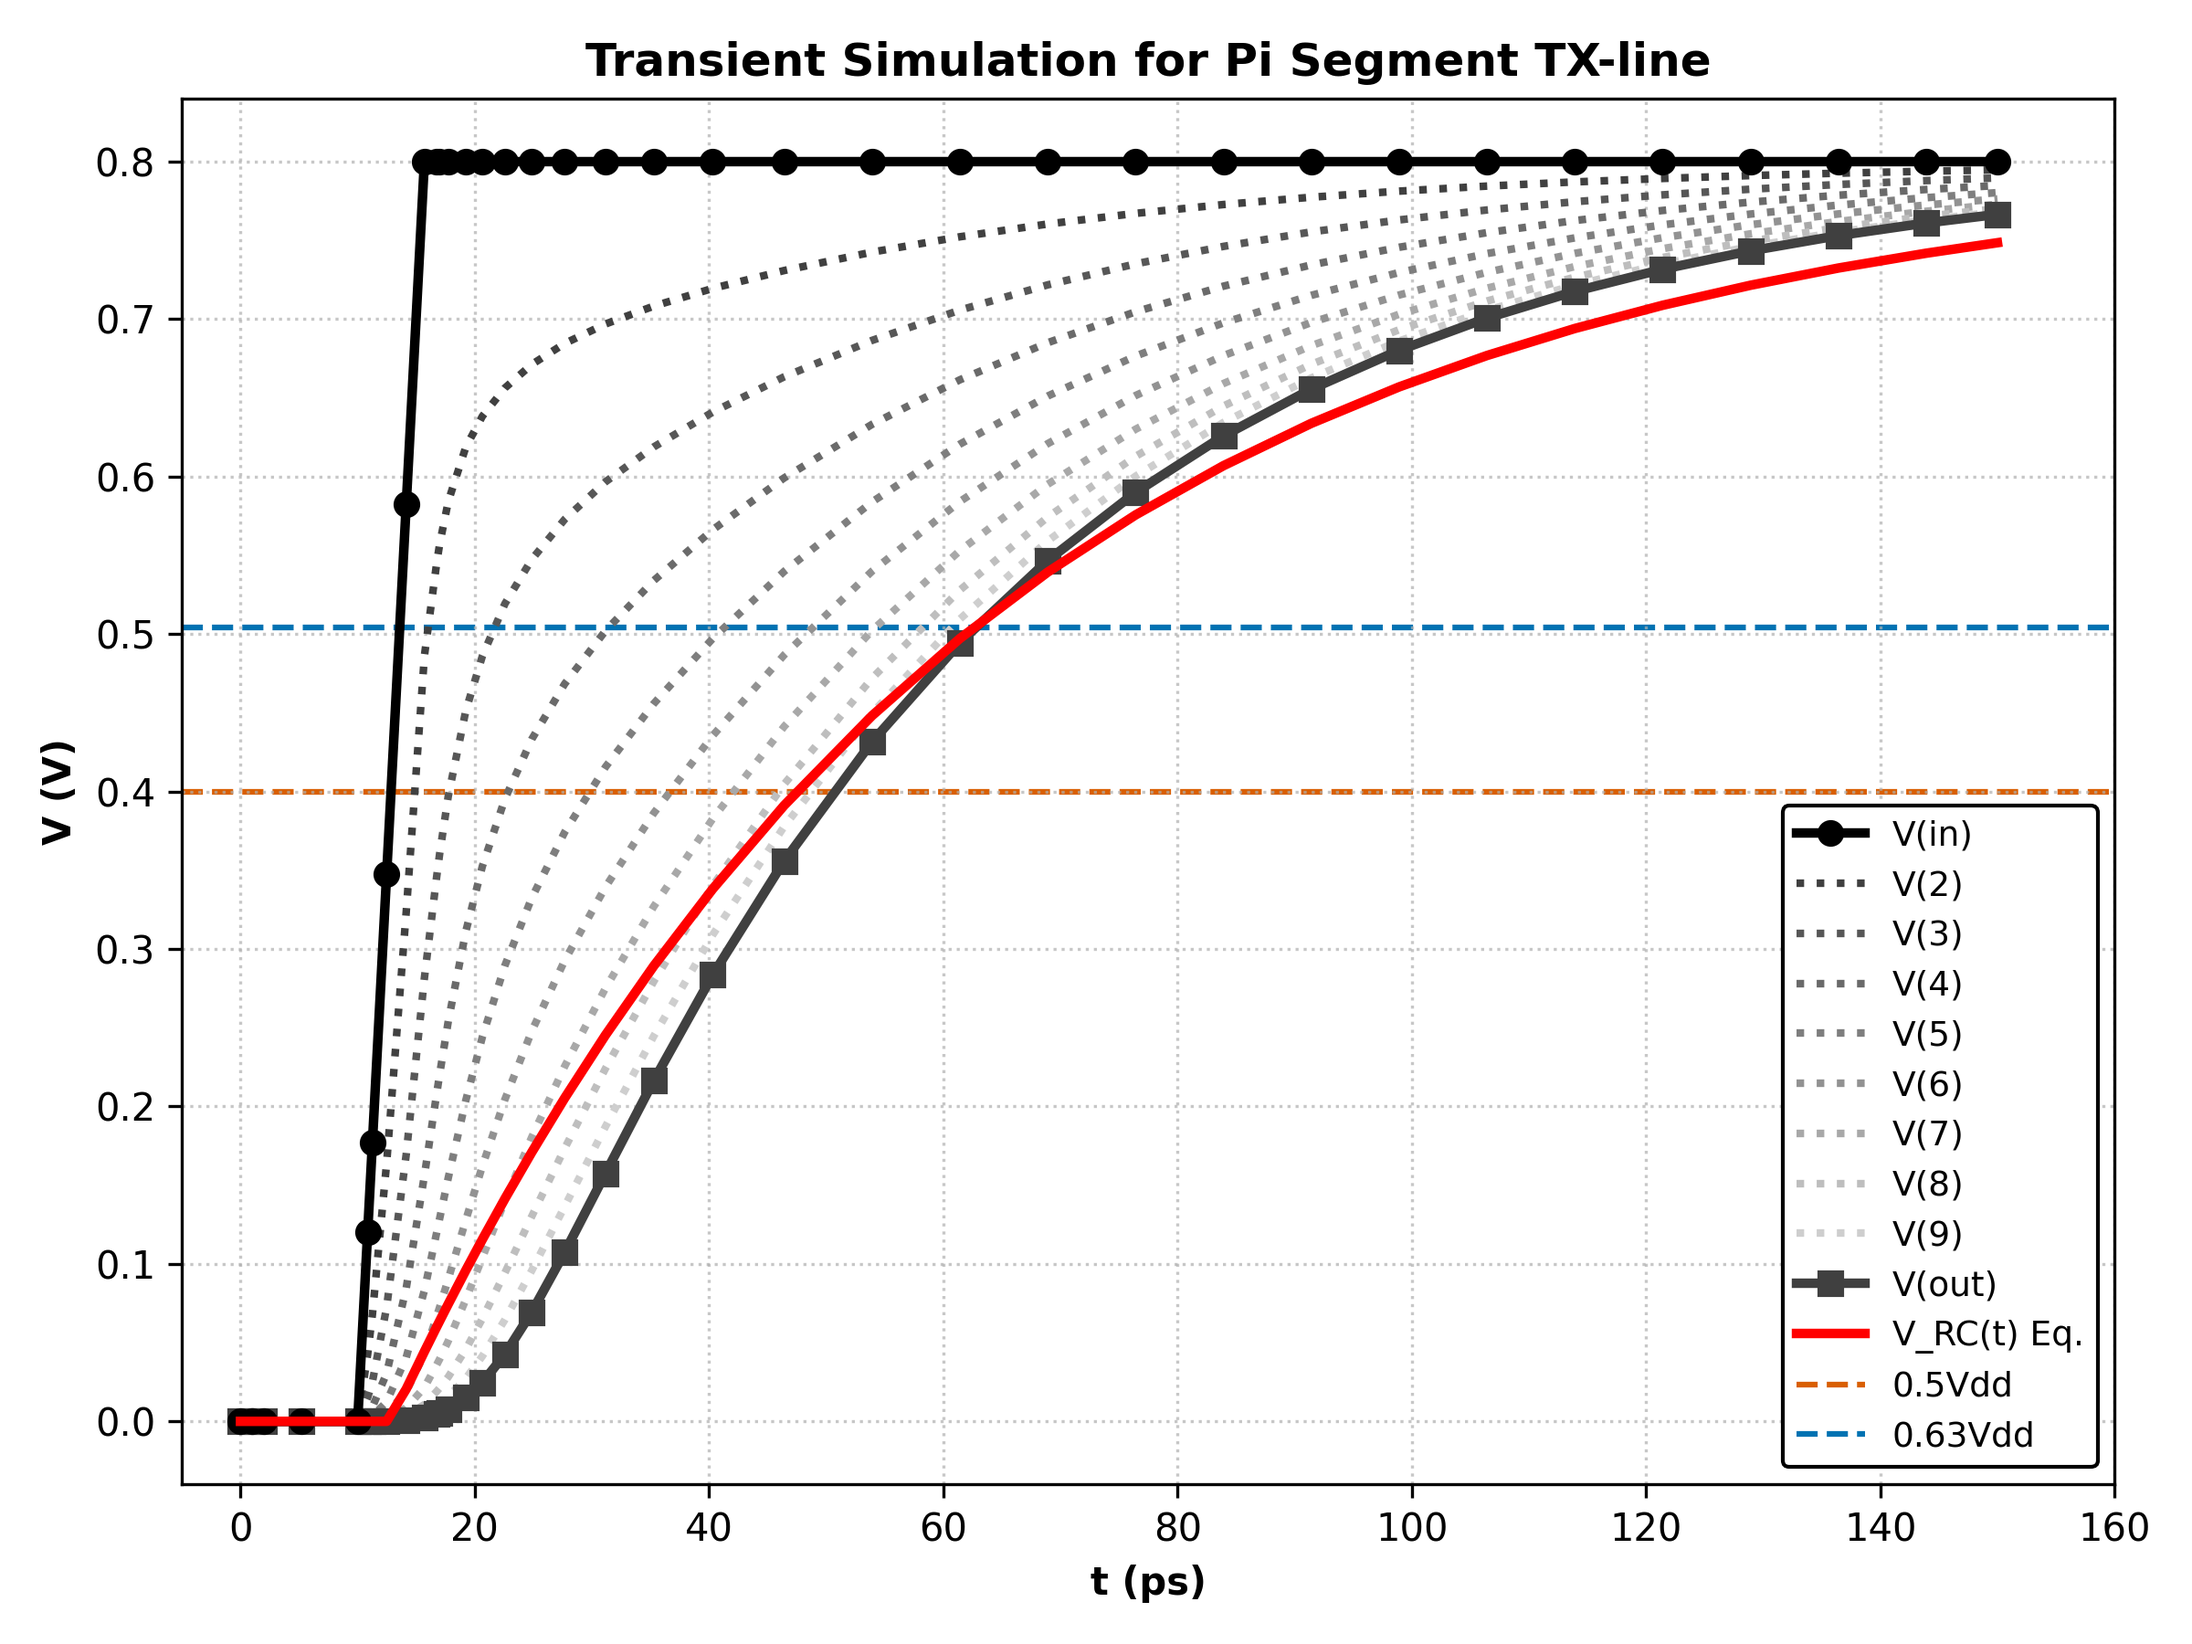
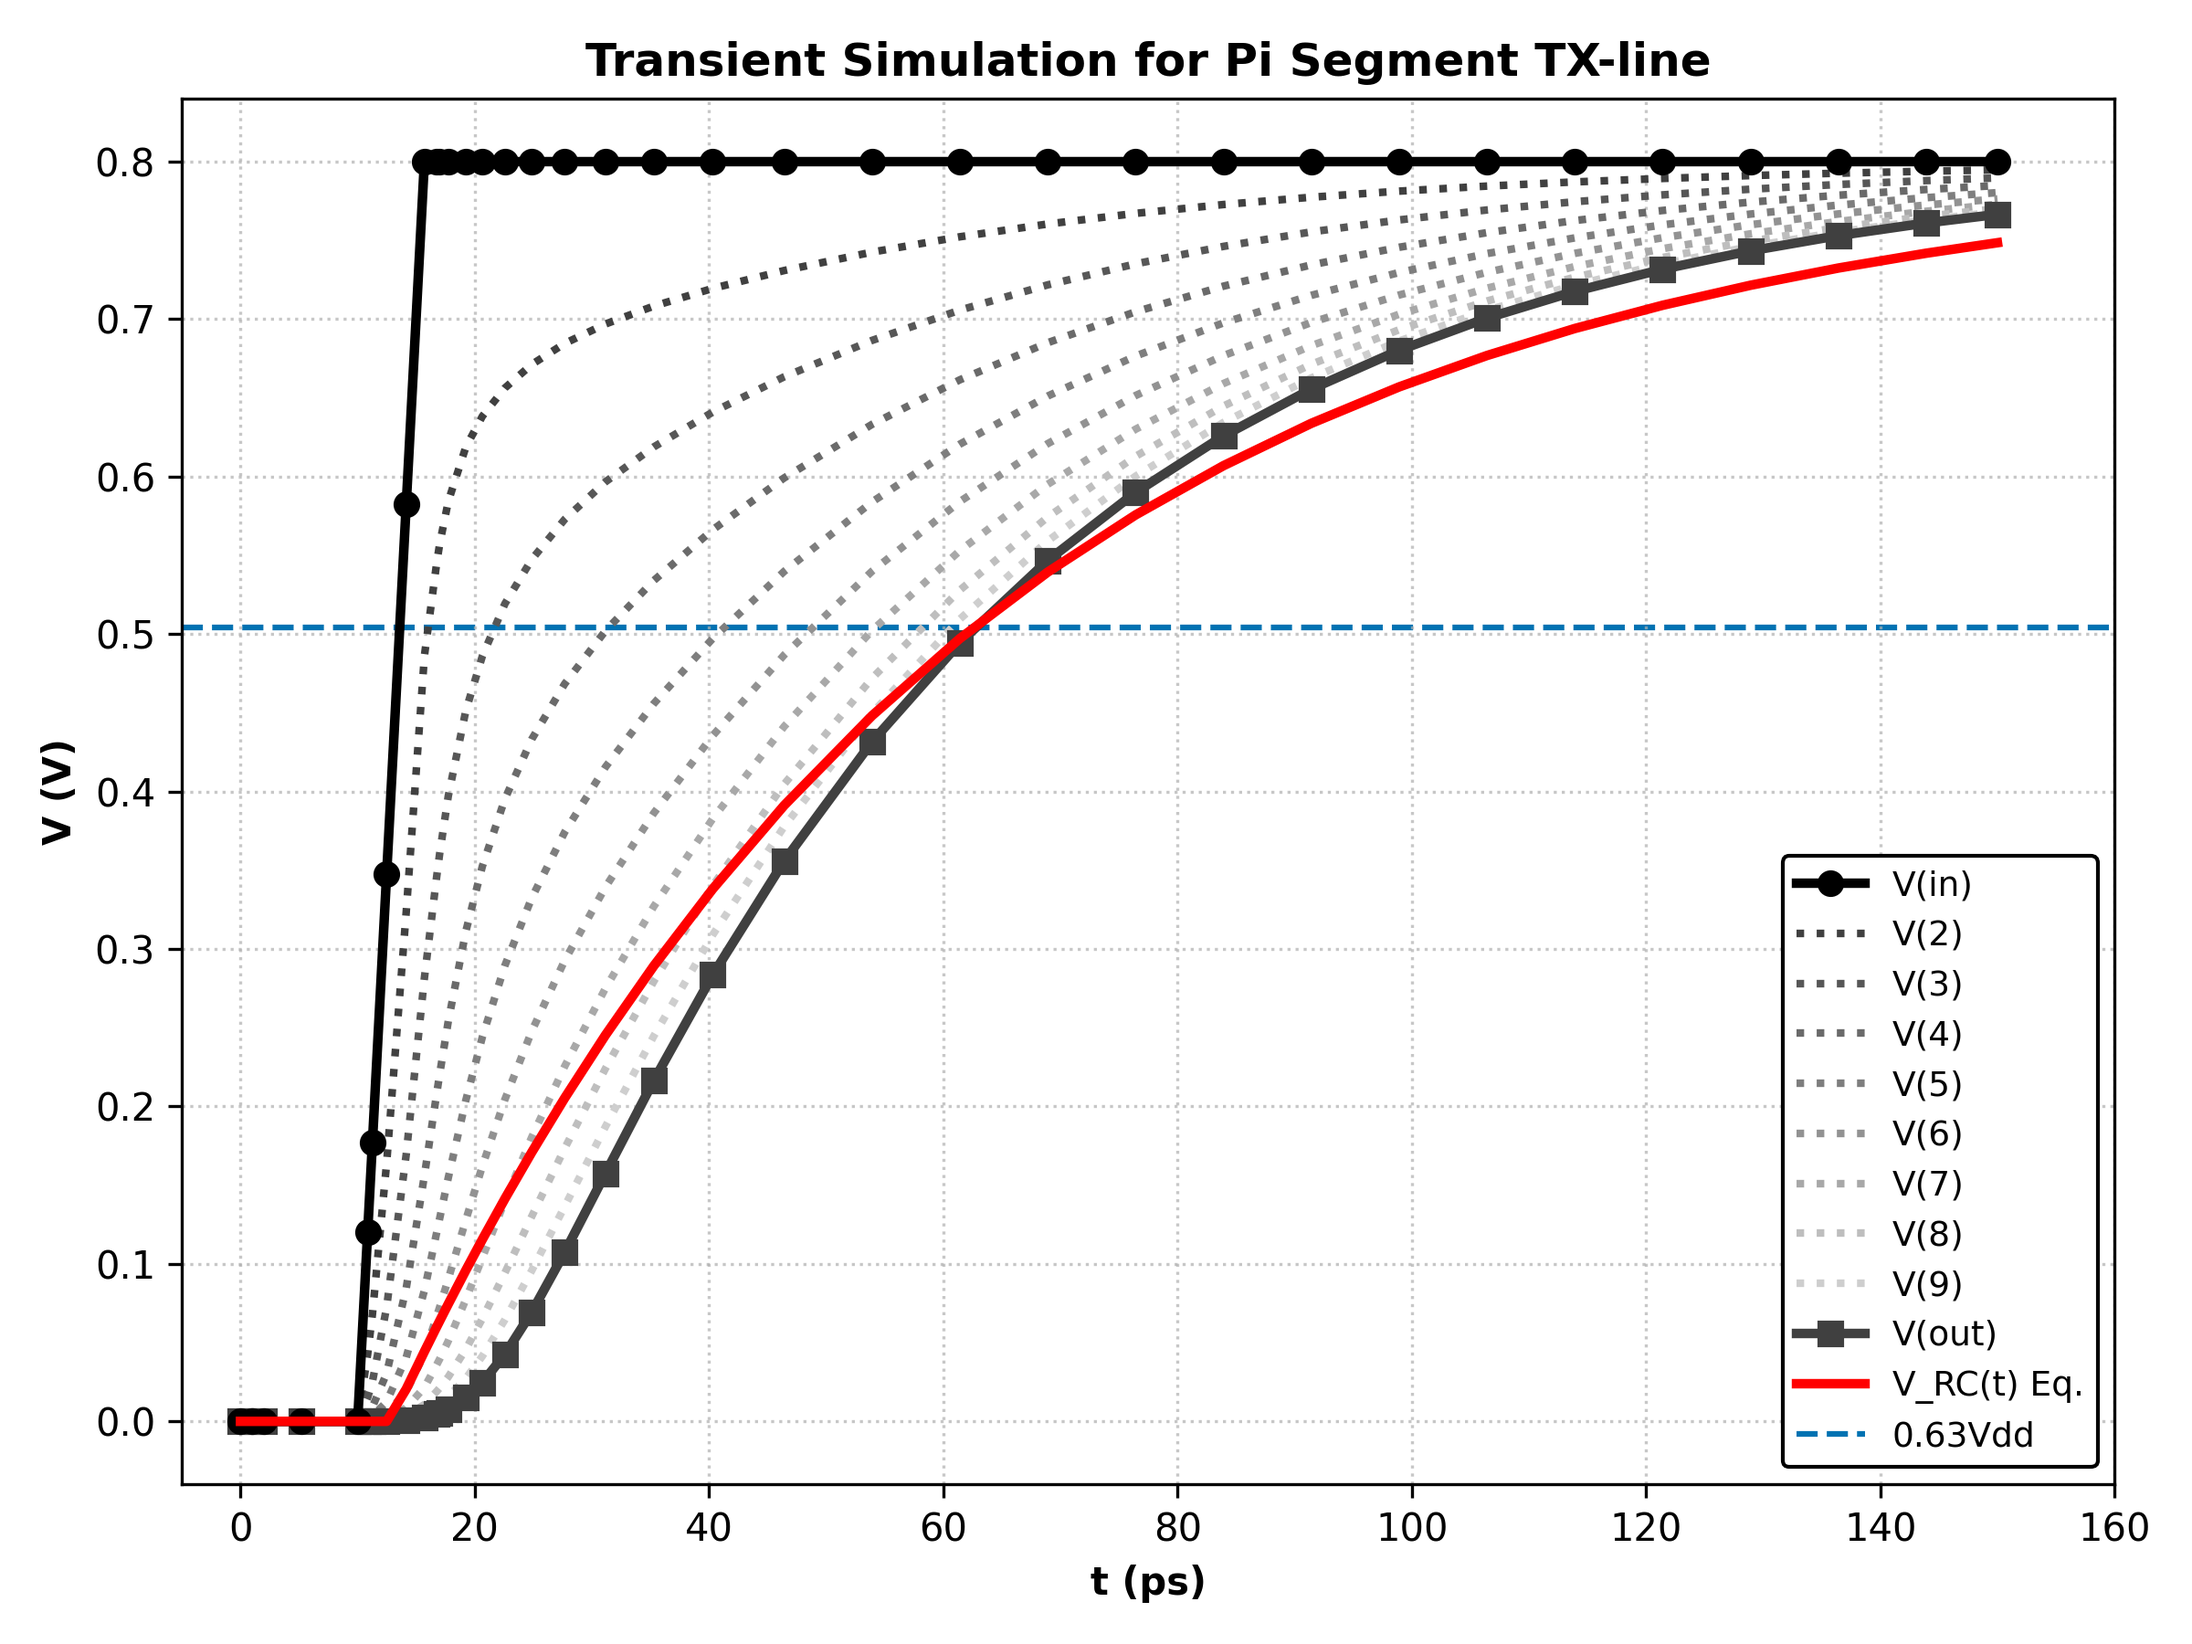
minor updates to sim and graphs

diff --git a/tx_builer.py b/tx_builer.py
@@ -175,8 +175,8 @@ R1 mid out r='R/2'
         graph.plot_series(
             x_data=time_ps,
             y_dict=y_dict,
-            extra_x_dict=extra_x,
-            extra_y_dict=extra_y,
+            # extra_x_dict=extra_x,
+            # extra_y_dict=extra_y,
             xlabel="t (ps)",
             ylabel="V (V)",
             title=f"Transient Simulation for {self.type} Segment TX-line",
@@ -202,7 +202,7 @@ R1 mid out r='R/2'
         return
 
     #trying to make a special graph
-    def tran_graph(self, graph_dir:str="graphs"):
+    def tran_graph(self, graph_dir:str="graphs", include_extras:bool=True, x_limit:int=160):
         import matplotlib.pyplot as plt
         import matplotlib.cm as cm
         
@@ -248,13 +248,14 @@ R1 mid out r='R/2'
                  linewidth=2.5, marker='s', markevery=max(1, len(time_ps)//20), 
                  label='V(out)', zorder=9)
 
-        # Plot Theoretical V_RC - Solid Red line
-        plt.plot(time_ps, y_vs, color='red', linestyle='-', linewidth=2.5, 
-                 label='V_RC(t) Eq.', zorder=11)
+        if include_extras:
+            # Plot Theoretical V_RC - Solid Red line
+            plt.plot(time_ps, y_vs, color='red', linestyle='-', linewidth=2.5, 
+                    label='V_RC(t) Eq.', zorder=11)
 
-        # Horizontal reference lines
-        plt.axhline(0.4, color='#d95f02', linestyle='--', label='0.5Vdd', zorder=1)
-        plt.axhline(0.504, color='#0072b2', linestyle='--', label='0.63Vdd', zorder=1)
+            # Horizontal reference lines
+            # plt.axhline(0.4, color='#d95f02', linestyle='--', label='0.5Vdd', zorder=1)
+            plt.axhline(0.504, color='#0072b2', linestyle='--', label='0.63Vdd', zorder=1)
 
         # Formatting to match your style
         plt.xlabel("t (ps)", fontweight='bold')
@@ -266,7 +267,7 @@ R1 mid out r='R/2'
         plt.legend(loc='lower right', framealpha=1.0, edgecolor='black', fontsize=9)
         
         # Lock the axes so you can see the ramp up clearly (adjust limits as needed)
-        plt.xlim(-5, 160)
+        plt.xlim(-5, x_limit)
         plt.ylim(-0.04, 0.84)
         
         plt.tight_layout()
@@ -319,7 +320,7 @@ if __name__ == "__main__":
     hi_tr_pi_builder.get_delay_per_n()
     hi_tr_pi_builder.get_transient()
     hi_tr_pi_builder.graph()
-    hi_tr_pi_builder.tran_graph_original()
+    hi_tr_pi_builder.tran_graph(include_extras=False, x_limit=300)
     hi_tr_pi_builder.tabulate()
 
     hi_tr_t_builder = tx_builder(sp_filename="t_tx_chain_hi_tr", type="T", n_max=n_max, n_tran=n_tran, R=R, C=C,
@@ -327,5 +328,5 @@ if __name__ == "__main__":
     hi_tr_t_builder.get_delay_per_n()
     hi_tr_t_builder.get_transient()
     hi_tr_t_builder.graph()
-    hi_tr_t_builder.tran_graph_original()
+    hi_tr_t_builder.tran_graph(include_extras=False, x_limit=300)
     hi_tr_t_builder.tabulate()
